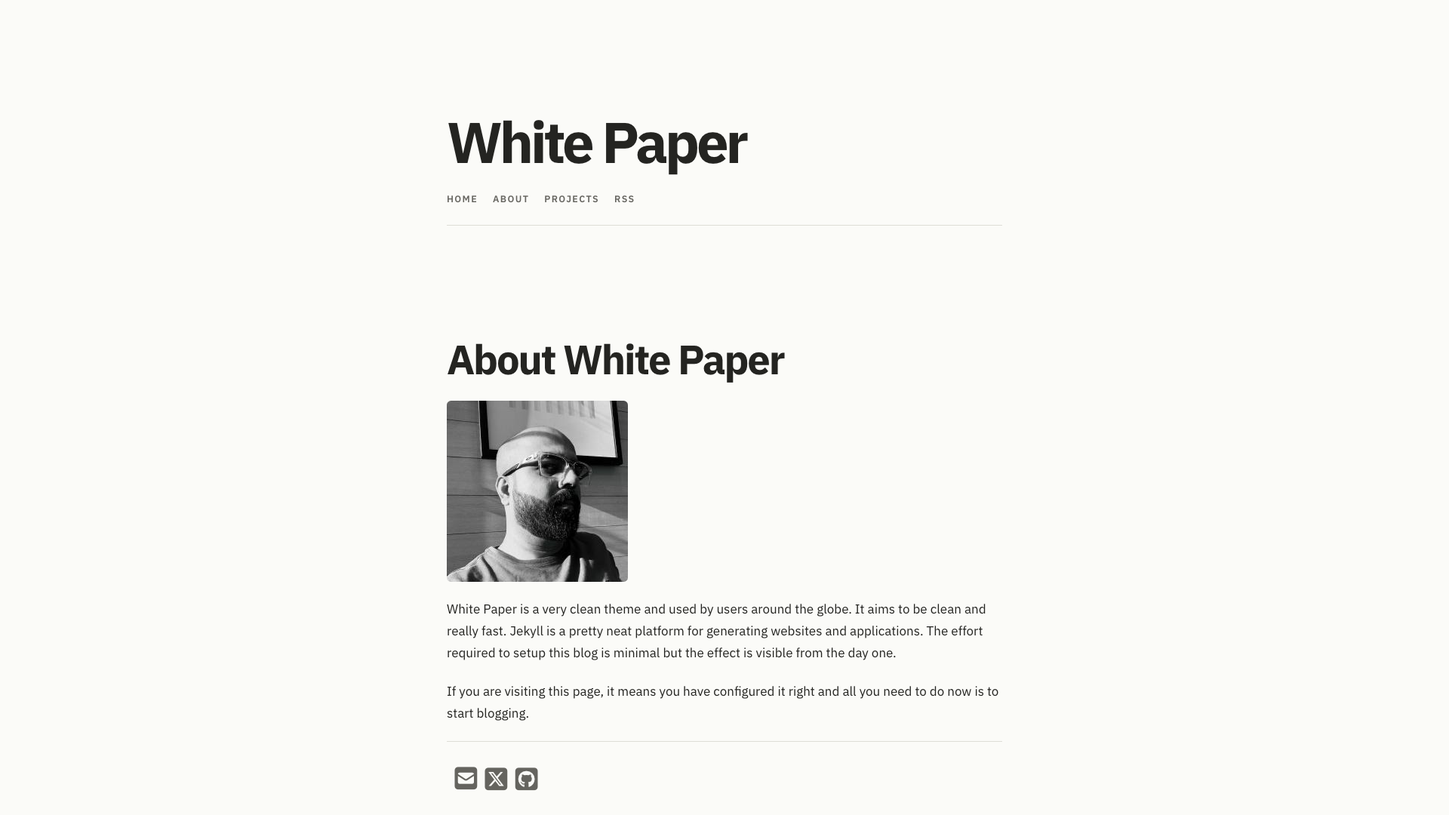
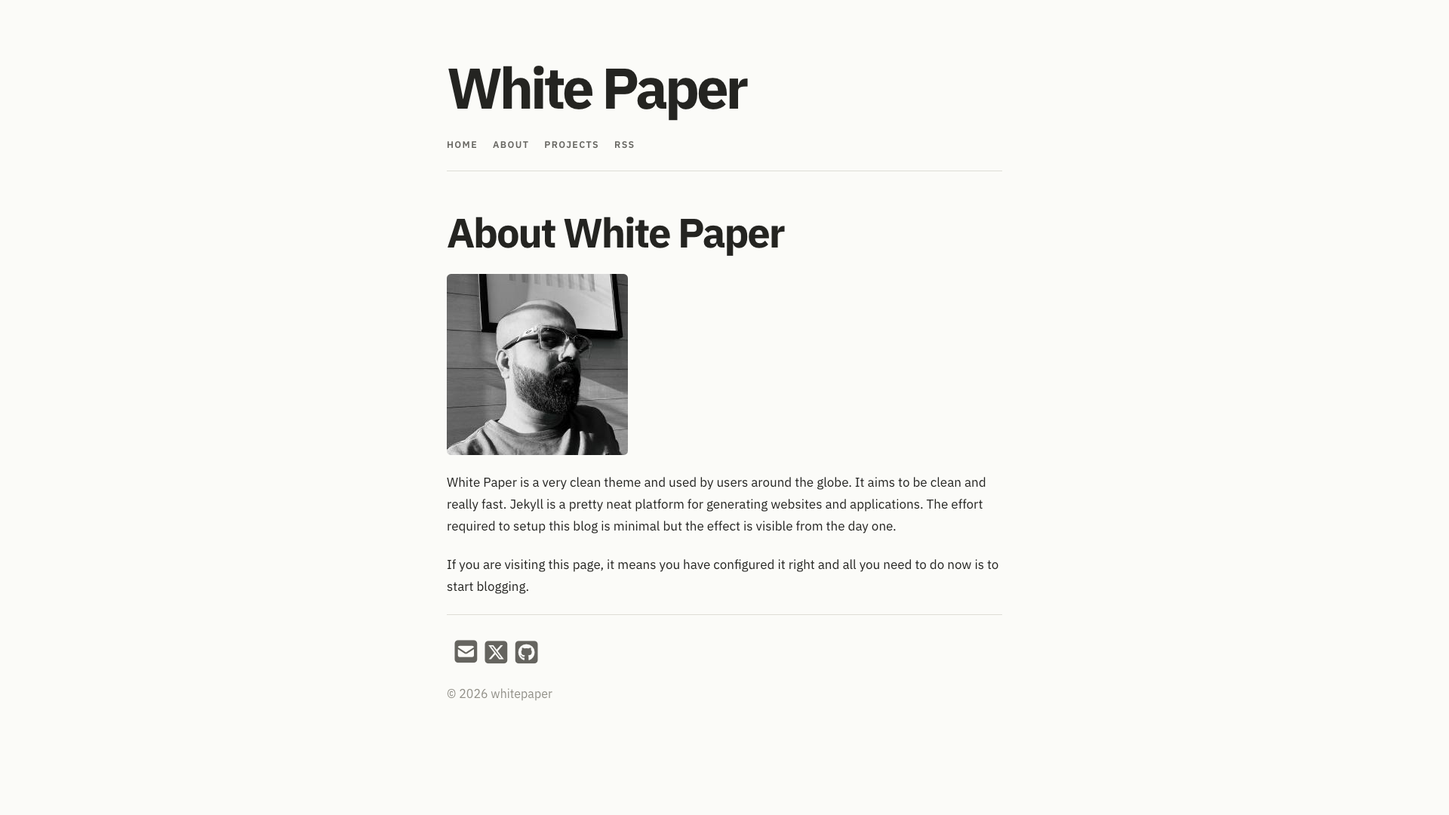
Fix homepage spacing and pagination
Avoid applying content padding to the header and remove the stacked listing margin. Give pagination controls explicit spacing and correct the newer-post icon direction. Refresh screenshots to match.

diff --git a/dist/css/main.min.rtl.css b/dist/css/main.min.rtl.css
@@ -1,1 +1,1 @@
-:root{--paper:#fbfbf8;--paper-raised:#fff;--ink:#242421;--ink-soft:#65645f;--ink-faint:#918f87;--line:#deddd6;--accent:#087ea4;--accent-dark:#075d78;--code-bg:#f1f4f3;--content-width:46rem;--radius:.35rem}*,:before,:after{box-sizing:border-box}html{--lightningcss-light:initial;--lightningcss-dark: ;color-scheme:light;scroll-behavior:smooth;font-size:100%}body{color:var(--ink);background:var(--paper);text-rendering:optimizelegibility;-webkit-font-smoothing:antialiased;margin:0;font-family:IBM Plex Sans,system-ui,sans-serif;font-size:1.0625rem;line-height:1.7}::selection{color:var(--ink);background:#cfeef5}.access{clip:rect(0, 0, 0, 0);white-space:nowrap;border:0;width:1px;height:1px;margin:-1px;padding:0;position:absolute;overflow:hidden}.clear{clear:both}.clearfix:after{clear:both;content:"";display:table}.container{width:min(100% - 2.5rem, var(--content-width));margin-inline:auto}a{color:var(--accent);text-underline-offset:.18em;text-decoration-thickness:.08em}a:hover{color:var(--accent-dark)}a:focus-visible,button:focus-visible{outline:3px solid color-mix(in srgb, var(--accent) 35%, transparent);outline-offset:.2rem;border-radius:.15rem}img{max-width:100%;height:auto;display:block}p,ul,ol,dl,blockquote,pre,table,.figure{margin-block:1.4rem}ul,ol{padding-inline-start:1.4rem}li+li{margin-top:.35rem}strong{font-weight:600}hr{border:0;border-top:1px solid var(--line);width:4rem;margin:3.5rem auto}header{border-bottom:1px solid var(--line);padding-block:clamp(2.5rem,8vw,5rem) 1.5rem}a.top-link{color:var(--ink);letter-spacing:-.055em;font-size:clamp(2.6rem,9vw,4.75rem);font-weight:700;line-height:.95;text-decoration:none;display:inline-block}a.top-link:hover{color:var(--ink-soft)}ul.nav{flex-wrap:wrap;gap:.5rem 1.25rem;margin:1.75rem 0 0;padding:0;list-style:none;display:flex}ul.nav li{letter-spacing:.11em;text-transform:uppercase;font-size:.78rem;font-weight:600;margin:0!important}ul.nav li a{color:var(--ink-soft);text-decoration:none}ul.nav li a:hover{color:var(--ink)}.listing{margin-block:clamp(3rem,8vw,5rem)}.listing .post{border-bottom:1px solid var(--line);margin-block:0 2.75rem;padding-block:0 2.75rem}.listing .post:last-child{border-bottom:0;margin-bottom:0}.listing .post h2{letter-spacing:-.025em;margin:0;font-size:clamp(1.55rem,5vw,2rem);font-weight:600;line-height:1.2}.listing .post h2 a{color:var(--ink);text-decoration:none}.listing .post h2 a:hover{color:var(--accent-dark)}.listing .post p:not(.post-date){color:var(--ink-soft)}.post-date,p.date{color:var(--ink-faint);letter-spacing:.08em;text-transform:uppercase;margin:.65rem 0 1.25rem;font-size:.78rem;font-weight:500}body>.container{padding-block:clamp(2.5rem,7vw,4.5rem)}h1,h2,h3,h4,h5,h6{color:var(--ink);text-wrap:balance;line-height:1.2}h1{letter-spacing:-.04em;margin:0 0 1.5rem;font-size:clamp(2.25rem,7vw,3.5rem)}h2{letter-spacing:-.025em;margin:2.75rem 0 1rem;font-size:clamp(1.65rem,5vw,2.15rem)}h3{margin:2.25rem 0 .75rem;font-size:1.3rem}h4,h5,h6{margin:2rem 0 .75rem;font-size:1rem}.container>h2:first-child{letter-spacing:-.04em;max-width:42rem;margin-top:0;margin-bottom:.5rem;font-size:clamp(2.2rem,7vw,3.4rem)}p.intro{color:var(--ink-soft);font-size:clamp(1.3rem,4vw,1.75rem);font-weight:300;line-height:1.45}blockquote{color:var(--ink-soft);border-inline-start:3px solid var(--accent);margin-inline:0;padding:.15rem 1.4rem .15rem 0;font-size:1.08em}blockquote p{color:inherit}.figure{background:var(--paper-raised);border:1px solid var(--line);border-radius:var(--radius);padding:.4rem}.figure small{color:var(--ink-soft);padding:.6rem .4rem .2rem;font-size:.78rem;line-height:1.4;display:block}.fig-a{float:inline-end;max-width:45%;margin-inline-start:1.5rem}table{width:100%;color:var(--ink);border-collapse:collapse;white-space:nowrap;font-size:.9rem;display:block;overflow-x:auto}caption{color:var(--ink-soft);text-align:start;text-transform:uppercase;padding-block:.5rem;font-size:.78rem;font-weight:600}th,td{text-align:start;border-bottom:1px solid var(--line);padding:.65rem .8rem}th{background:var(--code-bg);font-weight:600}code,pre{font-family:ui-monospace,SFMono-Regular,Consolas,monospace}code{color:#265364;background:var(--code-bg);border-radius:.25rem;padding:.12em .35em;font-size:.86em}pre{color:#303633;background:var(--paper-raised);border:1px solid var(--line);border-radius:var(--radius);tab-size:2;padding:1.15rem 1.25rem;font-size:.88rem;line-height:1.6;overflow-x:auto}pre code{color:inherit;font-size:inherit;background:100% 0;border-radius:0;padding:0}.pagination{border-top:1px solid var(--line);min-height:2.5rem;padding-top:2rem}.pagination a,.pagination span{color:var(--ink-soft)}.social-media-icons{float:inline-start;color:var(--ink-soft);margin-inline-end:.65rem}.social-media-icons:hover,.bottom-icon:hover{color:var(--accent-dark)}.keep-in-touch,.footer-pagination{clear:both;color:var(--ink-faint);margin-top:2.5rem;font-size:.85rem}.keep-in-touch{text-align:end;border-top:1px solid var(--line);padding-top:1.25rem}.owner-name{margin-inline-start:0}.user-avatar{border-radius:var(--radius)}.twitter-tweet-rendered{padding-block:.75rem}@media (width<=36rem){.container{width:min(100% - 1.5rem, var(--content-width))}header{padding-top:2.5rem}ul.nav{gap:.5rem 1rem}body>.container{padding-top:2.5rem}.listing{margin-block:2.75rem}.listing .post{margin-bottom:2rem;padding-bottom:2rem}.fig-a{float:none;max-width:100%;margin-inline-start:0}}@media (prefers-reduced-motion:reduce){html{scroll-behavior:auto}}.highlight .hll{background-color:#ffc}.highlight{background:#f8f8f8}.highlight .c{color:#080;font-style:italic}.highlight .err{border:1px solid red}.highlight .k{color:#a2f;font-weight:700}.highlight .o{color:#666}.highlight .cm{color:#080;font-style:italic}.highlight .cp{color:#080}.highlight .c1{color:#080;font-style:italic}.highlight .cs{color:#080;font-weight:700}.highlight .gd{color:#a00000}.highlight .ge{font-style:italic}.highlight .gr{color:red}.highlight .gh{color:navy;font-weight:700}.highlight .gi{color:#00a000}.highlight .go{color:#888}.highlight .gp{color:navy;font-weight:700}.highlight .gs{font-weight:700}.highlight .gu{color:purple;font-weight:700}.highlight .gt{color:#04d}.highlight .kc,.highlight .kd,.highlight .kn{color:#a2f;font-weight:700}.highlight .kp{color:#a2f}.highlight .kr{color:#a2f;font-weight:700}.highlight .kt{color:#0b0;font-weight:700}.highlight .m{color:#666}.highlight .s,.highlight .na{color:#b44}.highlight .nb{color:#a2f}.highlight .nc{color:#00f}.highlight .no{color:#800}.highlight .nd{color:#a2f}.highlight .ni{color:#999;font-weight:700}.highlight .ne{color:#d2413a;font-weight:700}.highlight .nf{color:#00a000}.highlight .nl{color:#a0a000}.highlight .nn{color:#00f;font-weight:700}.highlight .nt{color:green;font-weight:700}.highlight .nv{color:#b8860b}.highlight .ow{color:#a2f;font-weight:700}.highlight .w{color:#bbb}.highlight .mf,.highlight .mh,.highlight .mi,.highlight .mo{color:#666}.highlight .sb,.highlight .sc{color:#b44}.highlight .sd{color:#b44;font-style:italic}.highlight .s2{color:#b44}.highlight .se{color:#b62;font-weight:700}.highlight .sh{color:#b44}.highlight .si{color:#b68;font-weight:700}.highlight .sx{color:green}.highlight .sr{color:#b68}.highlight .s1{color:#b44}.highlight .ss{color:#b8860b}.highlight .bp{color:#a2f}.highlight .vc,.highlight .vg,.highlight .vi{color:#b8860b}.highlight .il{color:#666}
+:root{--paper:#fbfbf8;--paper-raised:#fff;--ink:#242421;--ink-soft:#65645f;--ink-faint:#918f87;--line:#deddd6;--accent:#087ea4;--accent-dark:#075d78;--code-bg:#f1f4f3;--content-width:46rem;--radius:.35rem}*,:before,:after{box-sizing:border-box}html{--lightningcss-light:initial;--lightningcss-dark: ;color-scheme:light;scroll-behavior:smooth;font-size:100%}body{color:var(--ink);background:var(--paper);text-rendering:optimizelegibility;-webkit-font-smoothing:antialiased;margin:0;font-family:IBM Plex Sans,system-ui,sans-serif;font-size:1.0625rem;line-height:1.7}::selection{color:var(--ink);background:#cfeef5}.access{clip:rect(0, 0, 0, 0);white-space:nowrap;border:0;width:1px;height:1px;margin:-1px;padding:0;position:absolute;overflow:hidden}.clear{clear:both}.clearfix:after{clear:both;content:"";display:table}.container{width:min(100% - 2.5rem, var(--content-width));margin-inline:auto}a{color:var(--accent);text-underline-offset:.18em;text-decoration-thickness:.08em}a:hover{color:var(--accent-dark)}a:focus-visible,button:focus-visible{outline:3px solid color-mix(in srgb, var(--accent) 35%, transparent);outline-offset:.2rem;border-radius:.15rem}img{max-width:100%;height:auto;display:block}p,ul,ol,dl,blockquote,pre,table,.figure{margin-block:1.4rem}ul,ol{padding-inline-start:1.4rem}li+li{margin-top:.35rem}strong{font-weight:600}hr{border:0;border-top:1px solid var(--line);width:4rem;margin:3.5rem auto}header{border-bottom:1px solid var(--line);padding-block:clamp(2.5rem,8vw,5rem) 1.5rem}a.top-link{color:var(--ink);letter-spacing:-.055em;font-size:clamp(2.6rem,9vw,4.75rem);font-weight:700;line-height:.95;text-decoration:none;display:inline-block}a.top-link:hover{color:var(--ink-soft)}ul.nav{flex-wrap:wrap;gap:.5rem 1.25rem;margin:1.75rem 0 0;padding:0;list-style:none;display:flex}ul.nav li{letter-spacing:.11em;text-transform:uppercase;font-size:.78rem;font-weight:600;margin:0!important}ul.nav li a{color:var(--ink-soft);text-decoration:none}ul.nav li a:hover{color:var(--ink)}.listing{margin-block:0 clamp(3rem,8vw,5rem)}.listing .post{border-bottom:1px solid var(--line);margin-block:0 2.75rem;padding-block:0 2.75rem}.listing .post:last-child{border-bottom:0;margin-bottom:0}.listing .post h2{letter-spacing:-.025em;margin:0;font-size:clamp(1.55rem,5vw,2rem);font-weight:600;line-height:1.2}.listing .post h2 a{color:var(--ink);text-decoration:none}.listing .post h2 a:hover{color:var(--accent-dark)}.listing .post p:not(.post-date){color:var(--ink-soft)}.post-date,p.date{color:var(--ink-faint);letter-spacing:.08em;text-transform:uppercase;margin:.65rem 0 1.25rem;font-size:.78rem;font-weight:500}.main-content{padding-block:clamp(2.5rem,5vw,3rem)}h1,h2,h3,h4,h5,h6{color:var(--ink);text-wrap:balance;line-height:1.2}h1{letter-spacing:-.04em;margin:0 0 1.5rem;font-size:clamp(2.25rem,7vw,3.5rem)}h2{letter-spacing:-.025em;margin:2.75rem 0 1rem;font-size:clamp(1.65rem,5vw,2.15rem)}h3{margin:2.25rem 0 .75rem;font-size:1.3rem}h4,h5,h6{margin:2rem 0 .75rem;font-size:1rem}.container>h2:first-child{letter-spacing:-.04em;max-width:42rem;margin-top:0;margin-bottom:.5rem;font-size:clamp(2.2rem,7vw,3.4rem)}p.intro{color:var(--ink-soft);font-size:clamp(1.3rem,4vw,1.75rem);font-weight:300;line-height:1.45}blockquote{color:var(--ink-soft);border-inline-start:3px solid var(--accent);margin-inline:0;padding:.15rem 1.4rem .15rem 0;font-size:1.08em}blockquote p{color:inherit}.figure{background:var(--paper-raised);border:1px solid var(--line);border-radius:var(--radius);padding:.4rem}.figure small{color:var(--ink-soft);padding:.6rem .4rem .2rem;font-size:.78rem;line-height:1.4;display:block}.fig-a{float:inline-end;max-width:45%;margin-inline-start:1.5rem}table{width:100%;color:var(--ink);border-collapse:collapse;white-space:nowrap;font-size:.9rem;display:block;overflow-x:auto}caption{color:var(--ink-soft);text-align:start;text-transform:uppercase;padding-block:.5rem;font-size:.78rem;font-weight:600}th,td{text-align:start;border-bottom:1px solid var(--line);padding:.65rem .8rem}th{background:var(--code-bg);font-weight:600}code,pre{font-family:ui-monospace,SFMono-Regular,Consolas,monospace}code{color:#265364;background:var(--code-bg);border-radius:.25rem;padding:.12em .35em;font-size:.86em}pre{color:#303633;background:var(--paper-raised);border:1px solid var(--line);border-radius:var(--radius);tab-size:2;padding:1.15rem 1.25rem;font-size:.88rem;line-height:1.6;overflow-x:auto}pre code{color:inherit;font-size:inherit;background:100% 0;border-radius:0;padding:0}.pagination{border-top:1px solid var(--line);min-height:2.5rem;padding-top:2rem}.pagination a,.pagination span{color:var(--ink-soft)}.pagination-links{float:inline-end;align-items:center;gap:1.5rem;display:flex}.pagination-links a,.pagination-links>span{justify-content:center;align-items:center;min-width:2rem;font-size:2rem;line-height:1;display:inline-flex}.pagination-links>span{opacity:.35}.social-media-icons{float:inline-start;color:var(--ink-soft);margin-inline-end:.65rem}.social-media-icons:hover,.bottom-icon:hover{color:var(--accent-dark)}.keep-in-touch,.footer-pagination{clear:both;color:var(--ink-faint);margin-top:2.5rem;font-size:.85rem}.keep-in-touch{text-align:end;border-top:1px solid var(--line);padding-top:1.25rem}.owner-name{margin-inline-start:0}.user-avatar{border-radius:var(--radius)}.twitter-tweet-rendered{padding-block:.75rem}@media (width<=36rem){.container{width:min(100% - 1.5rem, var(--content-width))}header{padding-top:2.5rem}ul.nav{gap:.5rem 1rem}.main-content{padding-top:2.5rem}.listing{margin-block:2.75rem}.listing .post{margin-bottom:2rem;padding-bottom:2rem}.fig-a{float:none;max-width:100%;margin-inline-start:0}}@media (prefers-reduced-motion:reduce){html{scroll-behavior:auto}}.highlight .hll{background-color:#ffc}.highlight{background:#f8f8f8}.highlight .c{color:#080;font-style:italic}.highlight .err{border:1px solid red}.highlight .k{color:#a2f;font-weight:700}.highlight .o{color:#666}.highlight .cm{color:#080;font-style:italic}.highlight .cp{color:#080}.highlight .c1{color:#080;font-style:italic}.highlight .cs{color:#080;font-weight:700}.highlight .gd{color:#a00000}.highlight .ge{font-style:italic}.highlight .gr{color:red}.highlight .gh{color:navy;font-weight:700}.highlight .gi{color:#00a000}.highlight .go{color:#888}.highlight .gp{color:navy;font-weight:700}.highlight .gs{font-weight:700}.highlight .gu{color:purple;font-weight:700}.highlight .gt{color:#04d}.highlight .kc,.highlight .kd,.highlight .kn{color:#a2f;font-weight:700}.highlight .kp{color:#a2f}.highlight .kr{color:#a2f;font-weight:700}.highlight .kt{color:#0b0;font-weight:700}.highlight .m{color:#666}.highlight .s,.highlight .na{color:#b44}.highlight .nb{color:#a2f}.highlight .nc{color:#00f}.highlight .no{color:#800}.highlight .nd{color:#a2f}.highlight .ni{color:#999;font-weight:700}.highlight .ne{color:#d2413a;font-weight:700}.highlight .nf{color:#00a000}.highlight .nl{color:#a0a000}.highlight .nn{color:#00f;font-weight:700}.highlight .nt{color:green;font-weight:700}.highlight .nv{color:#b8860b}.highlight .ow{color:#a2f;font-weight:700}.highlight .w{color:#bbb}.highlight .mf,.highlight .mh,.highlight .mi,.highlight .mo{color:#666}.highlight .sb,.highlight .sc{color:#b44}.highlight .sd{color:#b44;font-style:italic}.highlight .s2{color:#b44}.highlight .se{color:#b62;font-weight:700}.highlight .sh{color:#b44}.highlight .si{color:#b68;font-weight:700}.highlight .sx{color:green}.highlight .sr{color:#b68}.highlight .s1{color:#b44}.highlight .ss{color:#b8860b}.highlight .bp{color:#a2f}.highlight .vc,.highlight .vg,.highlight .vi{color:#b8860b}.highlight .il{color:#666}

diff --git a/dist/css/main.min.css b/dist/css/main.min.css
@@ -1,1 +1,1 @@
-:root{--paper:#fbfbf8;--paper-raised:#fff;--ink:#242421;--ink-soft:#65645f;--ink-faint:#918f87;--line:#deddd6;--accent:#087ea4;--accent-dark:#075d78;--code-bg:#f1f4f3;--content-width:46rem;--radius:.35rem}*,:before,:after{box-sizing:border-box}html{--lightningcss-light:initial;--lightningcss-dark: ;color-scheme:light;scroll-behavior:smooth;font-size:100%}body{color:var(--ink);background:var(--paper);text-rendering:optimizelegibility;-webkit-font-smoothing:antialiased;margin:0;font-family:IBM Plex Sans,system-ui,sans-serif;font-size:1.0625rem;line-height:1.7}::selection{color:var(--ink);background:#cfeef5}.access{clip:rect(0, 0, 0, 0);white-space:nowrap;border:0;width:1px;height:1px;margin:-1px;padding:0;position:absolute;overflow:hidden}.clear{clear:both}.clearfix:after{clear:both;content:"";display:table}.container{width:min(100% - 2.5rem, var(--content-width));margin-inline:auto}a{color:var(--accent);text-underline-offset:.18em;text-decoration-thickness:.08em}a:hover{color:var(--accent-dark)}a:focus-visible,button:focus-visible{outline:3px solid color-mix(in srgb, var(--accent) 35%, transparent);outline-offset:.2rem;border-radius:.15rem}img{max-width:100%;height:auto;display:block}p,ul,ol,dl,blockquote,pre,table,.figure{margin-block:1.4rem}ul,ol{padding-inline-start:1.4rem}li+li{margin-top:.35rem}strong{font-weight:600}hr{border:0;border-top:1px solid var(--line);width:4rem;margin:3.5rem auto}header{border-bottom:1px solid var(--line);padding-block:clamp(2.5rem,8vw,5rem) 1.5rem}a.top-link{color:var(--ink);letter-spacing:-.055em;font-size:clamp(2.6rem,9vw,4.75rem);font-weight:700;line-height:.95;text-decoration:none;display:inline-block}a.top-link:hover{color:var(--ink-soft)}ul.nav{flex-wrap:wrap;gap:.5rem 1.25rem;margin:1.75rem 0 0;padding:0;list-style:none;display:flex}ul.nav li{letter-spacing:.11em;text-transform:uppercase;font-size:.78rem;font-weight:600;margin:0!important}ul.nav li a{color:var(--ink-soft);text-decoration:none}ul.nav li a:hover{color:var(--ink)}.listing{margin-block:clamp(3rem,8vw,5rem)}.listing .post{border-bottom:1px solid var(--line);margin-block:0 2.75rem;padding-block:0 2.75rem}.listing .post:last-child{border-bottom:0;margin-bottom:0}.listing .post h2{letter-spacing:-.025em;margin:0;font-size:clamp(1.55rem,5vw,2rem);font-weight:600;line-height:1.2}.listing .post h2 a{color:var(--ink);text-decoration:none}.listing .post h2 a:hover{color:var(--accent-dark)}.listing .post p:not(.post-date){color:var(--ink-soft)}.post-date,p.date{color:var(--ink-faint);letter-spacing:.08em;text-transform:uppercase;margin:.65rem 0 1.25rem;font-size:.78rem;font-weight:500}body>.container{padding-block:clamp(2.5rem,7vw,4.5rem)}h1,h2,h3,h4,h5,h6{color:var(--ink);text-wrap:balance;line-height:1.2}h1{letter-spacing:-.04em;margin:0 0 1.5rem;font-size:clamp(2.25rem,7vw,3.5rem)}h2{letter-spacing:-.025em;margin:2.75rem 0 1rem;font-size:clamp(1.65rem,5vw,2.15rem)}h3{margin:2.25rem 0 .75rem;font-size:1.3rem}h4,h5,h6{margin:2rem 0 .75rem;font-size:1rem}.container>h2:first-child{letter-spacing:-.04em;max-width:42rem;margin-top:0;margin-bottom:.5rem;font-size:clamp(2.2rem,7vw,3.4rem)}p.intro{color:var(--ink-soft);font-size:clamp(1.3rem,4vw,1.75rem);font-weight:300;line-height:1.45}blockquote{color:var(--ink-soft);border-inline-start:3px solid var(--accent);margin-inline:0;padding:.15rem 0 .15rem 1.4rem;font-size:1.08em}blockquote p{color:inherit}.figure{background:var(--paper-raised);border:1px solid var(--line);border-radius:var(--radius);padding:.4rem}.figure small{color:var(--ink-soft);padding:.6rem .4rem .2rem;font-size:.78rem;line-height:1.4;display:block}.fig-a{float:inline-end;max-width:45%;margin-inline-start:1.5rem}table{width:100%;color:var(--ink);border-collapse:collapse;white-space:nowrap;font-size:.9rem;display:block;overflow-x:auto}caption{color:var(--ink-soft);text-align:start;text-transform:uppercase;padding-block:.5rem;font-size:.78rem;font-weight:600}th,td{text-align:start;border-bottom:1px solid var(--line);padding:.65rem .8rem}th{background:var(--code-bg);font-weight:600}code,pre{font-family:ui-monospace,SFMono-Regular,Consolas,monospace}code{color:#265364;background:var(--code-bg);border-radius:.25rem;padding:.12em .35em;font-size:.86em}pre{color:#303633;background:var(--paper-raised);border:1px solid var(--line);border-radius:var(--radius);tab-size:2;padding:1.15rem 1.25rem;font-size:.88rem;line-height:1.6;overflow-x:auto}pre code{color:inherit;font-size:inherit;background:0 0;border-radius:0;padding:0}.pagination{border-top:1px solid var(--line);min-height:2.5rem;padding-top:2rem}.pagination a,.pagination span{color:var(--ink-soft)}.social-media-icons{float:inline-start;color:var(--ink-soft);margin-inline-end:.65rem}.social-media-icons:hover,.bottom-icon:hover{color:var(--accent-dark)}.keep-in-touch,.footer-pagination{clear:both;color:var(--ink-faint);margin-top:2.5rem;font-size:.85rem}.keep-in-touch{text-align:end;border-top:1px solid var(--line);padding-top:1.25rem}.owner-name{margin-inline-start:0}.user-avatar{border-radius:var(--radius)}.twitter-tweet-rendered{padding-block:.75rem}@media (width<=36rem){.container{width:min(100% - 1.5rem, var(--content-width))}header{padding-top:2.5rem}ul.nav{gap:.5rem 1rem}body>.container{padding-top:2.5rem}.listing{margin-block:2.75rem}.listing .post{margin-bottom:2rem;padding-bottom:2rem}.fig-a{float:none;max-width:100%;margin-inline-start:0}}@media (prefers-reduced-motion:reduce){html{scroll-behavior:auto}}.highlight .hll{background-color:#ffc}.highlight{background:#f8f8f8}.highlight .c{color:#080;font-style:italic}.highlight .err{border:1px solid red}.highlight .k{color:#a2f;font-weight:700}.highlight .o{color:#666}.highlight .cm{color:#080;font-style:italic}.highlight .cp{color:#080}.highlight .c1{color:#080;font-style:italic}.highlight .cs{color:#080;font-weight:700}.highlight .gd{color:#a00000}.highlight .ge{font-style:italic}.highlight .gr{color:red}.highlight .gh{color:navy;font-weight:700}.highlight .gi{color:#00a000}.highlight .go{color:#888}.highlight .gp{color:navy;font-weight:700}.highlight .gs{font-weight:700}.highlight .gu{color:purple;font-weight:700}.highlight .gt{color:#04d}.highlight .kc,.highlight .kd,.highlight .kn{color:#a2f;font-weight:700}.highlight .kp{color:#a2f}.highlight .kr{color:#a2f;font-weight:700}.highlight .kt{color:#0b0;font-weight:700}.highlight .m{color:#666}.highlight .s,.highlight .na{color:#b44}.highlight .nb{color:#a2f}.highlight .nc{color:#00f}.highlight .no{color:#800}.highlight .nd{color:#a2f}.highlight .ni{color:#999;font-weight:700}.highlight .ne{color:#d2413a;font-weight:700}.highlight .nf{color:#00a000}.highlight .nl{color:#a0a000}.highlight .nn{color:#00f;font-weight:700}.highlight .nt{color:green;font-weight:700}.highlight .nv{color:#b8860b}.highlight .ow{color:#a2f;font-weight:700}.highlight .w{color:#bbb}.highlight .mf,.highlight .mh,.highlight .mi,.highlight .mo{color:#666}.highlight .sb,.highlight .sc{color:#b44}.highlight .sd{color:#b44;font-style:italic}.highlight .s2{color:#b44}.highlight .se{color:#b62;font-weight:700}.highlight .sh{color:#b44}.highlight .si{color:#b68;font-weight:700}.highlight .sx{color:green}.highlight .sr{color:#b68}.highlight .s1{color:#b44}.highlight .ss{color:#b8860b}.highlight .bp{color:#a2f}.highlight .vc,.highlight .vg,.highlight .vi{color:#b8860b}.highlight .il{color:#666}
+:root{--paper:#fbfbf8;--paper-raised:#fff;--ink:#242421;--ink-soft:#65645f;--ink-faint:#918f87;--line:#deddd6;--accent:#087ea4;--accent-dark:#075d78;--code-bg:#f1f4f3;--content-width:46rem;--radius:.35rem}*,:before,:after{box-sizing:border-box}html{--lightningcss-light:initial;--lightningcss-dark: ;color-scheme:light;scroll-behavior:smooth;font-size:100%}body{color:var(--ink);background:var(--paper);text-rendering:optimizelegibility;-webkit-font-smoothing:antialiased;margin:0;font-family:IBM Plex Sans,system-ui,sans-serif;font-size:1.0625rem;line-height:1.7}::selection{color:var(--ink);background:#cfeef5}.access{clip:rect(0, 0, 0, 0);white-space:nowrap;border:0;width:1px;height:1px;margin:-1px;padding:0;position:absolute;overflow:hidden}.clear{clear:both}.clearfix:after{clear:both;content:"";display:table}.container{width:min(100% - 2.5rem, var(--content-width));margin-inline:auto}a{color:var(--accent);text-underline-offset:.18em;text-decoration-thickness:.08em}a:hover{color:var(--accent-dark)}a:focus-visible,button:focus-visible{outline:3px solid color-mix(in srgb, var(--accent) 35%, transparent);outline-offset:.2rem;border-radius:.15rem}img{max-width:100%;height:auto;display:block}p,ul,ol,dl,blockquote,pre,table,.figure{margin-block:1.4rem}ul,ol{padding-inline-start:1.4rem}li+li{margin-top:.35rem}strong{font-weight:600}hr{border:0;border-top:1px solid var(--line);width:4rem;margin:3.5rem auto}header{border-bottom:1px solid var(--line);padding-block:clamp(2.5rem,8vw,5rem) 1.5rem}a.top-link{color:var(--ink);letter-spacing:-.055em;font-size:clamp(2.6rem,9vw,4.75rem);font-weight:700;line-height:.95;text-decoration:none;display:inline-block}a.top-link:hover{color:var(--ink-soft)}ul.nav{flex-wrap:wrap;gap:.5rem 1.25rem;margin:1.75rem 0 0;padding:0;list-style:none;display:flex}ul.nav li{letter-spacing:.11em;text-transform:uppercase;font-size:.78rem;font-weight:600;margin:0!important}ul.nav li a{color:var(--ink-soft);text-decoration:none}ul.nav li a:hover{color:var(--ink)}.listing{margin-block:0 clamp(3rem,8vw,5rem)}.listing .post{border-bottom:1px solid var(--line);margin-block:0 2.75rem;padding-block:0 2.75rem}.listing .post:last-child{border-bottom:0;margin-bottom:0}.listing .post h2{letter-spacing:-.025em;margin:0;font-size:clamp(1.55rem,5vw,2rem);font-weight:600;line-height:1.2}.listing .post h2 a{color:var(--ink);text-decoration:none}.listing .post h2 a:hover{color:var(--accent-dark)}.listing .post p:not(.post-date){color:var(--ink-soft)}.post-date,p.date{color:var(--ink-faint);letter-spacing:.08em;text-transform:uppercase;margin:.65rem 0 1.25rem;font-size:.78rem;font-weight:500}.main-content{padding-block:clamp(2.5rem,5vw,3rem)}h1,h2,h3,h4,h5,h6{color:var(--ink);text-wrap:balance;line-height:1.2}h1{letter-spacing:-.04em;margin:0 0 1.5rem;font-size:clamp(2.25rem,7vw,3.5rem)}h2{letter-spacing:-.025em;margin:2.75rem 0 1rem;font-size:clamp(1.65rem,5vw,2.15rem)}h3{margin:2.25rem 0 .75rem;font-size:1.3rem}h4,h5,h6{margin:2rem 0 .75rem;font-size:1rem}.container>h2:first-child{letter-spacing:-.04em;max-width:42rem;margin-top:0;margin-bottom:.5rem;font-size:clamp(2.2rem,7vw,3.4rem)}p.intro{color:var(--ink-soft);font-size:clamp(1.3rem,4vw,1.75rem);font-weight:300;line-height:1.45}blockquote{color:var(--ink-soft);border-inline-start:3px solid var(--accent);margin-inline:0;padding:.15rem 0 .15rem 1.4rem;font-size:1.08em}blockquote p{color:inherit}.figure{background:var(--paper-raised);border:1px solid var(--line);border-radius:var(--radius);padding:.4rem}.figure small{color:var(--ink-soft);padding:.6rem .4rem .2rem;font-size:.78rem;line-height:1.4;display:block}.fig-a{float:inline-end;max-width:45%;margin-inline-start:1.5rem}table{width:100%;color:var(--ink);border-collapse:collapse;white-space:nowrap;font-size:.9rem;display:block;overflow-x:auto}caption{color:var(--ink-soft);text-align:start;text-transform:uppercase;padding-block:.5rem;font-size:.78rem;font-weight:600}th,td{text-align:start;border-bottom:1px solid var(--line);padding:.65rem .8rem}th{background:var(--code-bg);font-weight:600}code,pre{font-family:ui-monospace,SFMono-Regular,Consolas,monospace}code{color:#265364;background:var(--code-bg);border-radius:.25rem;padding:.12em .35em;font-size:.86em}pre{color:#303633;background:var(--paper-raised);border:1px solid var(--line);border-radius:var(--radius);tab-size:2;padding:1.15rem 1.25rem;font-size:.88rem;line-height:1.6;overflow-x:auto}pre code{color:inherit;font-size:inherit;background:0 0;border-radius:0;padding:0}.pagination{border-top:1px solid var(--line);min-height:2.5rem;padding-top:2rem}.pagination a,.pagination span{color:var(--ink-soft)}.pagination-links{float:inline-end;align-items:center;gap:1.5rem;display:flex}.pagination-links a,.pagination-links>span{justify-content:center;align-items:center;min-width:2rem;font-size:2rem;line-height:1;display:inline-flex}.pagination-links>span{opacity:.35}.social-media-icons{float:inline-start;color:var(--ink-soft);margin-inline-end:.65rem}.social-media-icons:hover,.bottom-icon:hover{color:var(--accent-dark)}.keep-in-touch,.footer-pagination{clear:both;color:var(--ink-faint);margin-top:2.5rem;font-size:.85rem}.keep-in-touch{text-align:end;border-top:1px solid var(--line);padding-top:1.25rem}.owner-name{margin-inline-start:0}.user-avatar{border-radius:var(--radius)}.twitter-tweet-rendered{padding-block:.75rem}@media (width<=36rem){.container{width:min(100% - 1.5rem, var(--content-width))}header{padding-top:2.5rem}ul.nav{gap:.5rem 1rem}.main-content{padding-top:2.5rem}.listing{margin-block:2.75rem}.listing .post{margin-bottom:2rem;padding-bottom:2rem}.fig-a{float:none;max-width:100%;margin-inline-start:0}}@media (prefers-reduced-motion:reduce){html{scroll-behavior:auto}}.highlight .hll{background-color:#ffc}.highlight{background:#f8f8f8}.highlight .c{color:#080;font-style:italic}.highlight .err{border:1px solid red}.highlight .k{color:#a2f;font-weight:700}.highlight .o{color:#666}.highlight .cm{color:#080;font-style:italic}.highlight .cp{color:#080}.highlight .c1{color:#080;font-style:italic}.highlight .cs{color:#080;font-weight:700}.highlight .gd{color:#a00000}.highlight .ge{font-style:italic}.highlight .gr{color:red}.highlight .gh{color:navy;font-weight:700}.highlight .gi{color:#00a000}.highlight .go{color:#888}.highlight .gp{color:navy;font-weight:700}.highlight .gs{font-weight:700}.highlight .gu{color:purple;font-weight:700}.highlight .gt{color:#04d}.highlight .kc,.highlight .kd,.highlight .kn{color:#a2f;font-weight:700}.highlight .kp{color:#a2f}.highlight .kr{color:#a2f;font-weight:700}.highlight .kt{color:#0b0;font-weight:700}.highlight .m{color:#666}.highlight .s,.highlight .na{color:#b44}.highlight .nb{color:#a2f}.highlight .nc{color:#00f}.highlight .no{color:#800}.highlight .nd{color:#a2f}.highlight .ni{color:#999;font-weight:700}.highlight .ne{color:#d2413a;font-weight:700}.highlight .nf{color:#00a000}.highlight .nl{color:#a0a000}.highlight .nn{color:#00f;font-weight:700}.highlight .nt{color:green;font-weight:700}.highlight .nv{color:#b8860b}.highlight .ow{color:#a2f;font-weight:700}.highlight .w{color:#bbb}.highlight .mf,.highlight .mh,.highlight .mi,.highlight .mo{color:#666}.highlight .sb,.highlight .sc{color:#b44}.highlight .sd{color:#b44;font-style:italic}.highlight .s2{color:#b44}.highlight .se{color:#b62;font-weight:700}.highlight .sh{color:#b44}.highlight .si{color:#b68;font-weight:700}.highlight .sx{color:green}.highlight .sr{color:#b68}.highlight .s1{color:#b44}.highlight .ss{color:#b8860b}.highlight .bp{color:#a2f}.highlight .vc,.highlight .vg,.highlight .vi{color:#b8860b}.highlight .il{color:#666}

diff --git a/_includes/footer.html b/_includes/footer.html
@@ -15,27 +15,22 @@
   {% if site.owner.github %}
   <a href="{{ site.owner.github }}" class="social-media-icons"><i class="fa-brands fa-2x fa-square-github"></i></a>
   {% endif %}
-  <!-- Pagination, pull to the right -->
-  <div style="float: right;">
+  <nav class="pagination-links" aria-label="Pagination">
     {% if paginator.previous_page %}
-    {% if paginator.page == 2 %}
-    <a href="{{site.url}}/" class="newer"><span style="min-width: 32px; font-size: 2em;"><i
-          class="fa-solid fa-backward"></i></span></a>
+      {% if paginator.page == 2 %}
+      <a href="{{site.url}}/" class="newer" aria-label="Newer posts"><i class="fa-solid fa-backward"></i></a>
+      {% else %}
+      <a href="{{site.url}}/page{{paginator.previous_page}}" class="newer" aria-label="Newer posts"><i class="fa-solid fa-backward"></i></a>
+      {% endif %}
     {% else %}
-    <a href="{{site.url}}/page{{paginator.previous_page}}" class="newer"><span
-        style="min-width: 32px; font-size: 2em;"><i class="fa-solid fa-forward"></i></span></a>
-    {% endif %}
-    {% else %}
-    <span class="previous"><span style="min-width: 32px; font-size: 2em;"><i
-          class="fa-solid fa-backward"></i></span></span>
+    <span class="previous" aria-hidden="true"><i class="fa-solid fa-backward"></i></span>
     {% endif %}
     {% if paginator.next_page %}
-    <a href="{{site.url}}/page{{paginator.next_page}}" class="older"><span style="min-width: 32px; font-size: 2em;"><i
-          class="fa-solid fa-forward"></i></span></a>
+    <a href="{{site.url}}/page{{paginator.next_page}}" class="older" aria-label="Older posts"><i class="fa-solid fa-forward"></i></a>
     {% else %}
-    <span class="next"><span style="min-width: 32px; font-size: 2em;"><i class="fa-solid fa-forward"></i></span></span>
+    <span class="next" aria-hidden="true"><i class="fa-solid fa-forward"></i></span>
     {% endif %}
-  </div>
+  </nav>
 
 </div>
 {% endif %}

diff --git a/css/base.scss b/css/base.scss
@@ -171,7 +171,7 @@ ul.nav li a:hover {
 
 /* Home page entries are separated by whitespace, not cards or decoration. */
 .listing {
-  margin-block: clamp(3rem, 8vw, 5rem);
+  margin-block: 0 clamp(3rem, 8vw, 5rem);
 }
 
 .listing .post {
@@ -217,8 +217,8 @@ p.date {
 }
 
 /* Article typography favors a narrow measure and clear hierarchy. */
-body > .container {
-  padding-block: clamp(2.5rem, 7vw, 4.5rem);
+.main-content {
+  padding-block: clamp(2.5rem, 5vw, 3rem);
 }
 
 h1,
@@ -382,6 +382,27 @@ pre code {
   color: var(--ink-soft);
 }
 
+.pagination-links {
+  display: flex;
+  float: inline-end;
+  align-items: center;
+  gap: 1.5rem;
+}
+
+.pagination-links a,
+.pagination-links > span {
+  display: inline-flex;
+  align-items: center;
+  justify-content: center;
+  min-width: 2rem;
+  font-size: 2rem;
+  line-height: 1;
+}
+
+.pagination-links > span {
+  opacity: 0.35;
+}
+
 .social-media-icons {
   float: inline-start;
   margin-inline-end: 0.65rem;
@@ -432,7 +453,7 @@ pre code {
     gap: 0.5rem 1rem;
   }
 
-  body > .container {
+  .main-content {
     padding-top: 2.5rem;
   }
 

diff --git a/_layouts/default.html b/_layouts/default.html
@@ -9,10 +9,10 @@
 </head>
 <body>
   {% include header.html %}
-  <div class="container">
+  <main class="container main-content">
   {{ content }}
 
   {% include footer.html %}
-  </div><!-- /.main -->
+  </main><!-- /.main -->
 </body>
 </html>

diff --git a/CHANGELOG.md b/CHANGELOG.md
@@ -5,6 +5,13 @@ All notable changes to White Paper are documented in this file.
 The format is based on [Keep a Changelog](https://keepachangelog.com/en/1.1.0/),
 and this project adheres to [Semantic Versioning](https://semver.org/spec/v2.0.0.html).
 
+## [Unreleased]
+
+### Fixed
+
+- Remove stacked layout spacing between the header and first post.
+- Separate pagination controls and correct the newer-post direction.
+
 ## [7.0.0] - 2026-09-22
 
 ### Added
